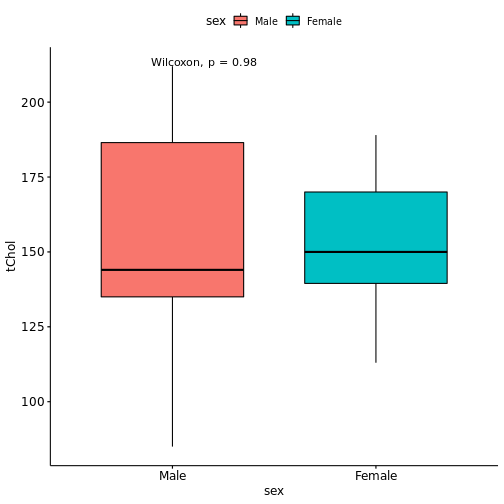
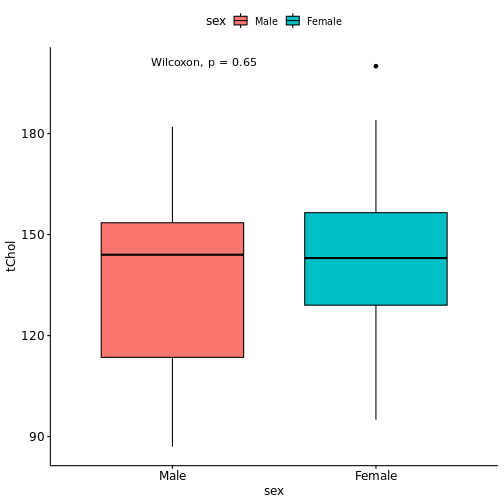
multi fig change

diff --git a/docs/statreview/index.html b/docs/statreview/index.html
@@ -172,8 +172,8 @@ https://www.evanmiller.org/ab-testing/t-test.html 에서 바로 가능.
 
 ---
 
-<div id="htmlwidget-cc7ec895c19de0c173eb" style="width:100%;height:auto;" class="datatables html-widget"></div>
-<script type="application/json" data-for="htmlwidget-cc7ec895c19de0c173eb">{"x":{"filter":"none","vertical":false,"caption":"<caption>data.t: sex and total cholesterol<\/caption>","data":[["person 1","person 2","person 3","person 4","person 5","person 6","person 7","person 8","person 9","person 10","person 11","person 12","person 13","person 14","person 15","person 16","person 17","person 18","person 19","person 20","person 21","person 22","person 23","person 24","person 25","person 26","person 27","person 28","person 29","person 30"],["Male","Female","Female","Male","Female","Male","Male","Female","Female","Male","Male","Male","Male","Male","Female","Female","Female","Female","Male","Female","Male","Male","Male","Female","Male","Female","Male","Female","Female","Female"],[144,136,147,194,180,207,209,172,175,161,212,141,134,110,189,149,164,143,179,168,85,142,136,131,170,131,93,113,162,150]],"container":"<table class=\"display\">\n  <thead>\n    <tr>\n      <th> <\/th>\n      <th>sex<\/th>\n      <th>tChol<\/th>\n    <\/tr>\n  <\/thead>\n<\/table>","options":{"columnDefs":[{"className":"dt-right","targets":2},{"orderable":false,"targets":0}],"order":[],"autoWidth":false,"orderClasses":false}},"evals":[],"jsHooks":[]}</script>
+<div id="htmlwidget-b1c8f5c8c3e6e6fd1508" style="width:100%;height:auto;" class="datatables html-widget"></div>
+<script type="application/json" data-for="htmlwidget-b1c8f5c8c3e6e6fd1508">{"x":{"filter":"none","vertical":false,"caption":"<caption>data.t: sex and total cholesterol<\/caption>","data":[["person 1","person 2","person 3","person 4","person 5","person 6","person 7","person 8","person 9","person 10","person 11","person 12","person 13","person 14","person 15","person 16","person 17","person 18","person 19","person 20","person 21","person 22","person 23","person 24","person 25","person 26","person 27","person 28","person 29","person 30"],["Male","Female","Female","Male","Male","Male","Female","Female","Male","Male","Male","Female","Female","Female","Female","Female","Female","Male","Female","Male","Male","Female","Male","Male","Female","Male","Female","Male","Male","Male"],[147,132,184,147,117,87,158,95,103,161,173,200,118,149,164,152,145,167,141,103,145,111,123,92,135,151,128,143,143,182]],"container":"<table class=\"display\">\n  <thead>\n    <tr>\n      <th> <\/th>\n      <th>sex<\/th>\n      <th>tChol<\/th>\n    <\/tr>\n  <\/thead>\n<\/table>","options":{"columnDefs":[{"className":"dt-right","targets":2},{"orderable":false,"targets":0}],"order":[],"autoWidth":false,"orderClasses":false}},"evals":[],"jsHooks":[]}</script>
 
 ---
 
@@ -188,17 +188,17 @@ nev.ttest
 ## 	Welch Two Sample t-test
 ## 
 ## data:  tChol by sex
-## t = -0.039321, df = 21.06, p-value = 0.969
+## t = 0.69251, df = 27.765, p-value = 0.4944
 ## alternative hypothesis: true difference in means between group Female and group Male is not equal to 0
 ## 95 percent confidence interval:
-##  -25.14378  24.21045
+##  -14.13327  28.56185
 ## sample estimates:
 ## mean in group Female   mean in group Male 
-##             154.0000             154.4667
+##             143.7143             136.5000
 ```
 
 .large[
-여자의 평균 콜레스테롤 값은 154, 남자는 154.5 이고 `\(p\)`-value는 0.969  
+여자의 평균 콜레스테롤 값은 143.7, 남자는 136.5 이고 `\(p\)`-value는 0.494  
 
 ]
 
@@ -218,17 +218,17 @@ ev.ttest
 ## 	Two Sample t-test
 ## 
 ## data:  tChol by sex
-## t = -0.039321, df = 28, p-value = 0.9689
+## t = 0.6903, df = 28, p-value = 0.4957
 ## alternative hypothesis: true difference in means between group Female and group Male is not equal to 0
 ## 95 percent confidence interval:
-##  -24.77772  23.84439
+##  -14.19356  28.62213
 ## sample estimates:
 ## mean in group Female   mean in group Male 
-##             154.0000             154.4667
+##             143.7143             136.5000
 ```
 
 
-앞서는 **Welch t-test** 였는데 이름이 바뀐 것을 확인할 수 있고 `\(p\)`-value도 0.969로 다름. 
+앞서는 **Welch t-test** 였는데 이름이 바뀐 것을 확인할 수 있고 `\(p\)`-value도 0.496로 다름. 
 - 특별한 경우가 아니고서야 위험한 등분산가정을 할 필요가 없음.   
 
 - **R** 에서 디폴트도 `F` 임.
@@ -284,7 +284,7 @@ res.wilcox
 ## 	Wilcoxon rank sum test with continuity correction
 ## 
 ## data:  tChol by sex
-## W = 113.5, p-value = 0.9835
+## W = 123.5, p-value = 0.6473
 ## alternative hypothesis: true location shift is not equal to 0
 ```
 
@@ -314,8 +314,8 @@ res.wilcox
 
 ---
 
-<div id="htmlwidget-c99940647d67e931312d" style="width:100%;height:auto;" class="datatables html-widget"></div>
-<script type="application/json" data-for="htmlwidget-c99940647d67e931312d">{"x":{"filter":"none","vertical":false,"caption":"<caption>data.t: group and total cholesterol<\/caption>","data":[["person 1","person 2","person 3","person 4","person 5","person 6","person 7","person 8","person 9","person 10","person 11","person 12","person 13","person 14","person 15","person 16","person 17","person 18","person 19","person 20","person 21","person 22","person 23","person 24","person 25","person 26","person 27","person 28","person 29","person 30"],["C","C","C","B","C","B","B","B","C","A","B","B","A","B","C","A","C","C","A","A","A","A","C","B","C","B","A","B","C","B"],[148,126,128,144,140,117,147,182,146,115,125,171,140,111,132,146,177,145,160,53,127,159,113,163,174,145,187,122,162,162]],"container":"<table class=\"display\">\n  <thead>\n    <tr>\n      <th> <\/th>\n      <th>group<\/th>\n      <th>tChol<\/th>\n    <\/tr>\n  <\/thead>\n<\/table>","options":{"columnDefs":[{"className":"dt-right","targets":2},{"orderable":false,"targets":0}],"order":[],"autoWidth":false,"orderClasses":false}},"evals":[],"jsHooks":[]}</script>
+<div id="htmlwidget-c174424942672d0b5ef6" style="width:100%;height:auto;" class="datatables html-widget"></div>
+<script type="application/json" data-for="htmlwidget-c174424942672d0b5ef6">{"x":{"filter":"none","vertical":false,"caption":"<caption>data.t: group and total cholesterol<\/caption>","data":[["person 1","person 2","person 3","person 4","person 5","person 6","person 7","person 8","person 9","person 10","person 11","person 12","person 13","person 14","person 15","person 16","person 17","person 18","person 19","person 20","person 21","person 22","person 23","person 24","person 25","person 26","person 27","person 28","person 29","person 30"],["C","C","C","B","C","B","B","B","C","A","B","B","A","B","C","A","C","C","A","A","A","A","C","B","C","B","A","B","C","B"],[148,126,128,144,140,117,147,182,146,115,125,171,140,111,132,146,177,145,160,53,127,159,113,163,174,145,187,122,162,162]],"container":"<table class=\"display\">\n  <thead>\n    <tr>\n      <th> <\/th>\n      <th>group<\/th>\n      <th>tChol<\/th>\n    <\/tr>\n  <\/thead>\n<\/table>","options":{"columnDefs":[{"className":"dt-right","targets":2},{"orderable":false,"targets":0}],"order":[],"autoWidth":false,"orderClasses":false}},"evals":[],"jsHooks":[]}</script>
 
 ---
 
@@ -412,8 +412,8 @@ class: center, middle
 
 ---
 
-<div id="htmlwidget-df227a0455af7988d855" style="width:100%;height:auto;" class="datatables html-widget"></div>
-<script type="application/json" data-for="htmlwidget-df227a0455af7988d855">{"x":{"filter":"none","vertical":false,"caption":"<caption>data.chi: HTN &amp; DM medication<\/caption>","data":[["person 1","person 2","person 3","person 4","person 5","person 6","person 7","person 8","person 9","person 10","person 11","person 12","person 13","person 14","person 15","person 16","person 17","person 18","person 19","person 20","person 21","person 22","person 23","person 24","person 25","person 26","person 27","person 28","person 29","person 30","person 31","person 32","person 33","person 34","person 35","person 36","person 37","person 38","person 39","person 40","person 41","person 42","person 43","person 44","person 45","person 46","person 47","person 48","person 49","person 50"],[1,0,0,0,1,1,0,0,0,0,0,0,0,1,1,0,1,0,0,0,1,0,0,0,0,1,1,0,0,1,0,1,0,0,0,1,1,0,0,1,1,1,1,1,0,1,1,1,0,1],[0,0,1,1,0,0,0,0,1,1,0,0,1,1,0,1,0,0,0,0,1,0,1,0,0,0,0,0,1,0,0,1,1,0,0,1,1,1,1,0,1,1,0,0,1,0,0,1,1,0]],"container":"<table class=\"display\">\n  <thead>\n    <tr>\n      <th> <\/th>\n      <th>HTN_medi<\/th>\n      <th>DM_medi<\/th>\n    <\/tr>\n  <\/thead>\n<\/table>","options":{"columnDefs":[{"className":"dt-right","targets":[1,2]},{"orderable":false,"targets":0}],"order":[],"autoWidth":false,"orderClasses":false}},"evals":[],"jsHooks":[]}</script>
+<div id="htmlwidget-8718a3f57f0966ef9180" style="width:100%;height:auto;" class="datatables html-widget"></div>
+<script type="application/json" data-for="htmlwidget-8718a3f57f0966ef9180">{"x":{"filter":"none","vertical":false,"caption":"<caption>data.chi: HTN &amp; DM medication<\/caption>","data":[["person 1","person 2","person 3","person 4","person 5","person 6","person 7","person 8","person 9","person 10","person 11","person 12","person 13","person 14","person 15","person 16","person 17","person 18","person 19","person 20","person 21","person 22","person 23","person 24","person 25","person 26","person 27","person 28","person 29","person 30","person 31","person 32","person 33","person 34","person 35","person 36","person 37","person 38","person 39","person 40","person 41","person 42","person 43","person 44","person 45","person 46","person 47","person 48","person 49","person 50"],[1,0,0,0,1,1,0,0,0,0,0,0,0,1,1,0,1,0,0,0,1,0,0,0,0,1,1,0,0,1,0,1,0,0,0,1,1,0,0,1,1,1,1,1,0,1,1,1,0,1],[0,0,1,1,0,0,0,0,1,1,0,0,1,1,0,1,0,0,0,0,1,0,1,0,0,0,0,0,1,0,0,1,1,0,0,1,1,1,1,0,1,1,0,0,1,0,0,1,1,0]],"container":"<table class=\"display\">\n  <thead>\n    <tr>\n      <th> <\/th>\n      <th>HTN_medi<\/th>\n      <th>DM_medi<\/th>\n    <\/tr>\n  <\/thead>\n<\/table>","options":{"columnDefs":[{"className":"dt-right","targets":[1,2]},{"orderable":false,"targets":0}],"order":[],"autoWidth":false,"orderClasses":false}},"evals":[],"jsHooks":[]}</script>
 
 
 ---
@@ -462,8 +462,8 @@ res.chi
 
 ---
 
-<div id="htmlwidget-e197233812ec9fcecd2a" style="width:100%;height:auto;" class="datatables html-widget"></div>
-<script type="application/json" data-for="htmlwidget-e197233812ec9fcecd2a">{"x":{"filter":"none","vertical":false,"caption":"<caption>data.fisher: HTN &amp; DM medication<\/caption>","data":[["person 1","person 2","person 3","person 4","person 5","person 6","person 7","person 8","person 9","person 10","person 11","person 12","person 13","person 14","person 15","person 16","person 17","person 18","person 19","person 20","person 21","person 22","person 23","person 24","person 25","person 26","person 27","person 28","person 29","person 30","person 31","person 32","person 33","person 34","person 35","person 36","person 37","person 38","person 39","person 40","person 41","person 42","person 43","person 44","person 45","person 46","person 47","person 48","person 49","person 50"],[1,0,0,0,1,1,0,0,0,0,0,0,0,0,1,0,0,0,0,0,1,0,0,0,0,1,0,0,0,1,0,0,0,0,0,1,0,0,0,0,0,1,0,0,0,0,1,0,0,1],[0,0,0,1,0,0,0,0,1,0,0,0,0,1,0,1,0,0,0,0,0,0,0,0,0,0,0,0,1,0,0,0,0,0,0,1,1,1,1,0,0,1,0,0,0,0,0,0,0,0]],"container":"<table class=\"display\">\n  <thead>\n    <tr>\n      <th> <\/th>\n      <th>HTN_medi<\/th>\n      <th>DM_medi<\/th>\n    <\/tr>\n  <\/thead>\n<\/table>","options":{"columnDefs":[{"className":"dt-right","targets":[1,2]},{"orderable":false,"targets":0}],"order":[],"autoWidth":false,"orderClasses":false}},"evals":[],"jsHooks":[]}</script>
+<div id="htmlwidget-c0b0607f89ef6b0f8516" style="width:100%;height:auto;" class="datatables html-widget"></div>
+<script type="application/json" data-for="htmlwidget-c0b0607f89ef6b0f8516">{"x":{"filter":"none","vertical":false,"caption":"<caption>data.fisher: HTN &amp; DM medication<\/caption>","data":[["person 1","person 2","person 3","person 4","person 5","person 6","person 7","person 8","person 9","person 10","person 11","person 12","person 13","person 14","person 15","person 16","person 17","person 18","person 19","person 20","person 21","person 22","person 23","person 24","person 25","person 26","person 27","person 28","person 29","person 30","person 31","person 32","person 33","person 34","person 35","person 36","person 37","person 38","person 39","person 40","person 41","person 42","person 43","person 44","person 45","person 46","person 47","person 48","person 49","person 50"],[1,0,0,0,1,1,0,0,0,0,0,0,0,0,1,0,0,0,0,0,1,0,0,0,0,1,0,0,0,1,0,0,0,0,0,1,0,0,0,0,0,1,0,0,0,0,1,0,0,1],[0,0,0,1,0,0,0,0,1,0,0,0,0,1,0,1,0,0,0,0,0,0,0,0,0,0,0,0,1,0,0,0,0,0,0,1,1,1,1,0,0,1,0,0,0,0,0,0,0,0]],"container":"<table class=\"display\">\n  <thead>\n    <tr>\n      <th> <\/th>\n      <th>HTN_medi<\/th>\n      <th>DM_medi<\/th>\n    <\/tr>\n  <\/thead>\n<\/table>","options":{"columnDefs":[{"className":"dt-right","targets":[1,2]},{"orderable":false,"targets":0}],"order":[],"autoWidth":false,"orderClasses":false}},"evals":[],"jsHooks":[]}</script>
 
 ---
 
@@ -565,8 +565,8 @@ class: center, middle
 
 
 ---
-<div id="htmlwidget-b9ff6a92120ca06e7db7" style="width:100%;height:auto;" class="datatables html-widget"></div>
-<script type="application/json" data-for="htmlwidget-b9ff6a92120ca06e7db7">{"x":{"filter":"none","vertical":false,"caption":"<caption>data.pt: systolic blood pressure measured by hand &amp; machine<\/caption>","data":[["person 1","person 2","person 3","person 4","person 5","person 6","person 7","person 8","person 9","person 10","person 11","person 12","person 13","person 14","person 15","person 16","person 17","person 18","person 19","person 20","person 21","person 22","person 23","person 24","person 25","person 26","person 27","person 28","person 29","person 30"],[128,128,120,119,124,130,127,131,127,120,119,131,129,129,125,129,126,132,123,111,125,125,119,112,129,126,125,128,125,128],[128,119,119,126,118,124,128,129,117,130,123,128,128,133,127,126,127,119,122,125,124,127,128,126,127,123,129,123,142,123]],"container":"<table class=\"display\">\n  <thead>\n    <tr>\n      <th> <\/th>\n      <th>SBP_hand<\/th>\n      <th>SBP_machine<\/th>\n    <\/tr>\n  <\/thead>\n<\/table>","options":{"columnDefs":[{"className":"dt-right","targets":[1,2]},{"orderable":false,"targets":0}],"order":[],"autoWidth":false,"orderClasses":false}},"evals":[],"jsHooks":[]}</script>
+<div id="htmlwidget-2ee2c4466c84311ffb87" style="width:100%;height:auto;" class="datatables html-widget"></div>
+<script type="application/json" data-for="htmlwidget-2ee2c4466c84311ffb87">{"x":{"filter":"none","vertical":false,"caption":"<caption>data.pt: systolic blood pressure measured by hand &amp; machine<\/caption>","data":[["person 1","person 2","person 3","person 4","person 5","person 6","person 7","person 8","person 9","person 10","person 11","person 12","person 13","person 14","person 15","person 16","person 17","person 18","person 19","person 20","person 21","person 22","person 23","person 24","person 25","person 26","person 27","person 28","person 29","person 30"],[128,128,120,119,124,130,127,131,127,120,119,131,129,129,125,129,126,132,123,111,125,125,119,112,129,126,125,128,125,128],[128,119,119,126,118,124,128,129,117,130,123,128,128,133,127,126,127,119,122,125,124,127,128,126,127,123,129,123,142,123]],"container":"<table class=\"display\">\n  <thead>\n    <tr>\n      <th> <\/th>\n      <th>SBP_hand<\/th>\n      <th>SBP_machine<\/th>\n    <\/tr>\n  <\/thead>\n<\/table>","options":{"columnDefs":[{"className":"dt-right","targets":[1,2]},{"orderable":false,"targets":0}],"order":[],"autoWidth":false,"orderClasses":false}},"evals":[],"jsHooks":[]}</script>
 
 
 ---
@@ -664,8 +664,8 @@ class: center, middle
 
 ---
 
-<div id="htmlwidget-cf2938c795d1b78ee20e" style="width:100%;height:auto;" class="datatables html-widget"></div>
-<script type="application/json" data-for="htmlwidget-cf2938c795d1b78ee20e">{"x":{"filter":"none","vertical":false,"caption":"<caption>data.mc: Abdominal pain - before &amp; after<\/caption>","data":[["person 1","person 2","person 3","person 4","person 5","person 6","person 7","person 8","person 9","person 10","person 11","person 12","person 13","person 14","person 15","person 16","person 17","person 18","person 19","person 20","person 21","person 22","person 23","person 24","person 25","person 26","person 27","person 28","person 29","person 30"],[0,1,0,0,0,1,0,0,0,0,1,1,0,1,0,1,1,0,0,0,1,1,1,0,1,1,0,1,0,1],[0,1,1,0,1,0,0,0,0,1,0,0,0,1,1,0,1,0,1,1,1,0,0,1,0,0,0,1,1,0]],"container":"<table class=\"display\">\n  <thead>\n    <tr>\n      <th> <\/th>\n      <th>Pain_before<\/th>\n      <th>Pain_after<\/th>\n    <\/tr>\n  <\/thead>\n<\/table>","options":{"columnDefs":[{"className":"dt-right","targets":[1,2]},{"orderable":false,"targets":0}],"order":[],"autoWidth":false,"orderClasses":false}},"evals":[],"jsHooks":[]}</script>
+<div id="htmlwidget-f091f83bafd7dfe15a46" style="width:100%;height:auto;" class="datatables html-widget"></div>
+<script type="application/json" data-for="htmlwidget-f091f83bafd7dfe15a46">{"x":{"filter":"none","vertical":false,"caption":"<caption>data.mc: Abdominal pain - before &amp; after<\/caption>","data":[["person 1","person 2","person 3","person 4","person 5","person 6","person 7","person 8","person 9","person 10","person 11","person 12","person 13","person 14","person 15","person 16","person 17","person 18","person 19","person 20","person 21","person 22","person 23","person 24","person 25","person 26","person 27","person 28","person 29","person 30"],[0,1,0,0,0,1,0,0,0,0,1,1,0,1,0,1,1,0,0,0,1,1,1,0,1,1,0,1,0,1],[0,1,1,0,1,0,0,0,0,1,0,0,0,1,1,0,1,0,1,1,1,0,0,1,0,0,0,1,1,0]],"container":"<table class=\"display\">\n  <thead>\n    <tr>\n      <th> <\/th>\n      <th>Pain_before<\/th>\n      <th>Pain_after<\/th>\n    <\/tr>\n  <\/thead>\n<\/table>","options":{"columnDefs":[{"className":"dt-right","targets":[1,2]},{"orderable":false,"targets":0}],"order":[],"autoWidth":false,"orderClasses":false}},"evals":[],"jsHooks":[]}</script>
 
 ---
 
@@ -785,7 +785,7 @@ nominalSymmetryTest(AndersonRainGarden)
 ]
 
 &lt;center&gt;
-&lt;img src="https://www.researchgate.net/profile/Anne-Dyrhol-Riise/publication/259766024/figure/tbl4/AS:392649367408643@1470626312604/Univariate-and-multivariate-analysis-of-factors-associated-with-a-positive-TST-5-mm.png" width=65%&gt;&lt;/a&gt;
+&lt;img src="https://www.researchgate.net/publication/316728873/figure/tbl4/AS:667604591071246@1536180746489/Univariate-analysis-and-multivariate-analysis-of-factors-associated-with-SVCS-3.png" width=55%&gt;&lt;/a&gt;
 &lt;/center&gt;
 
 ---
